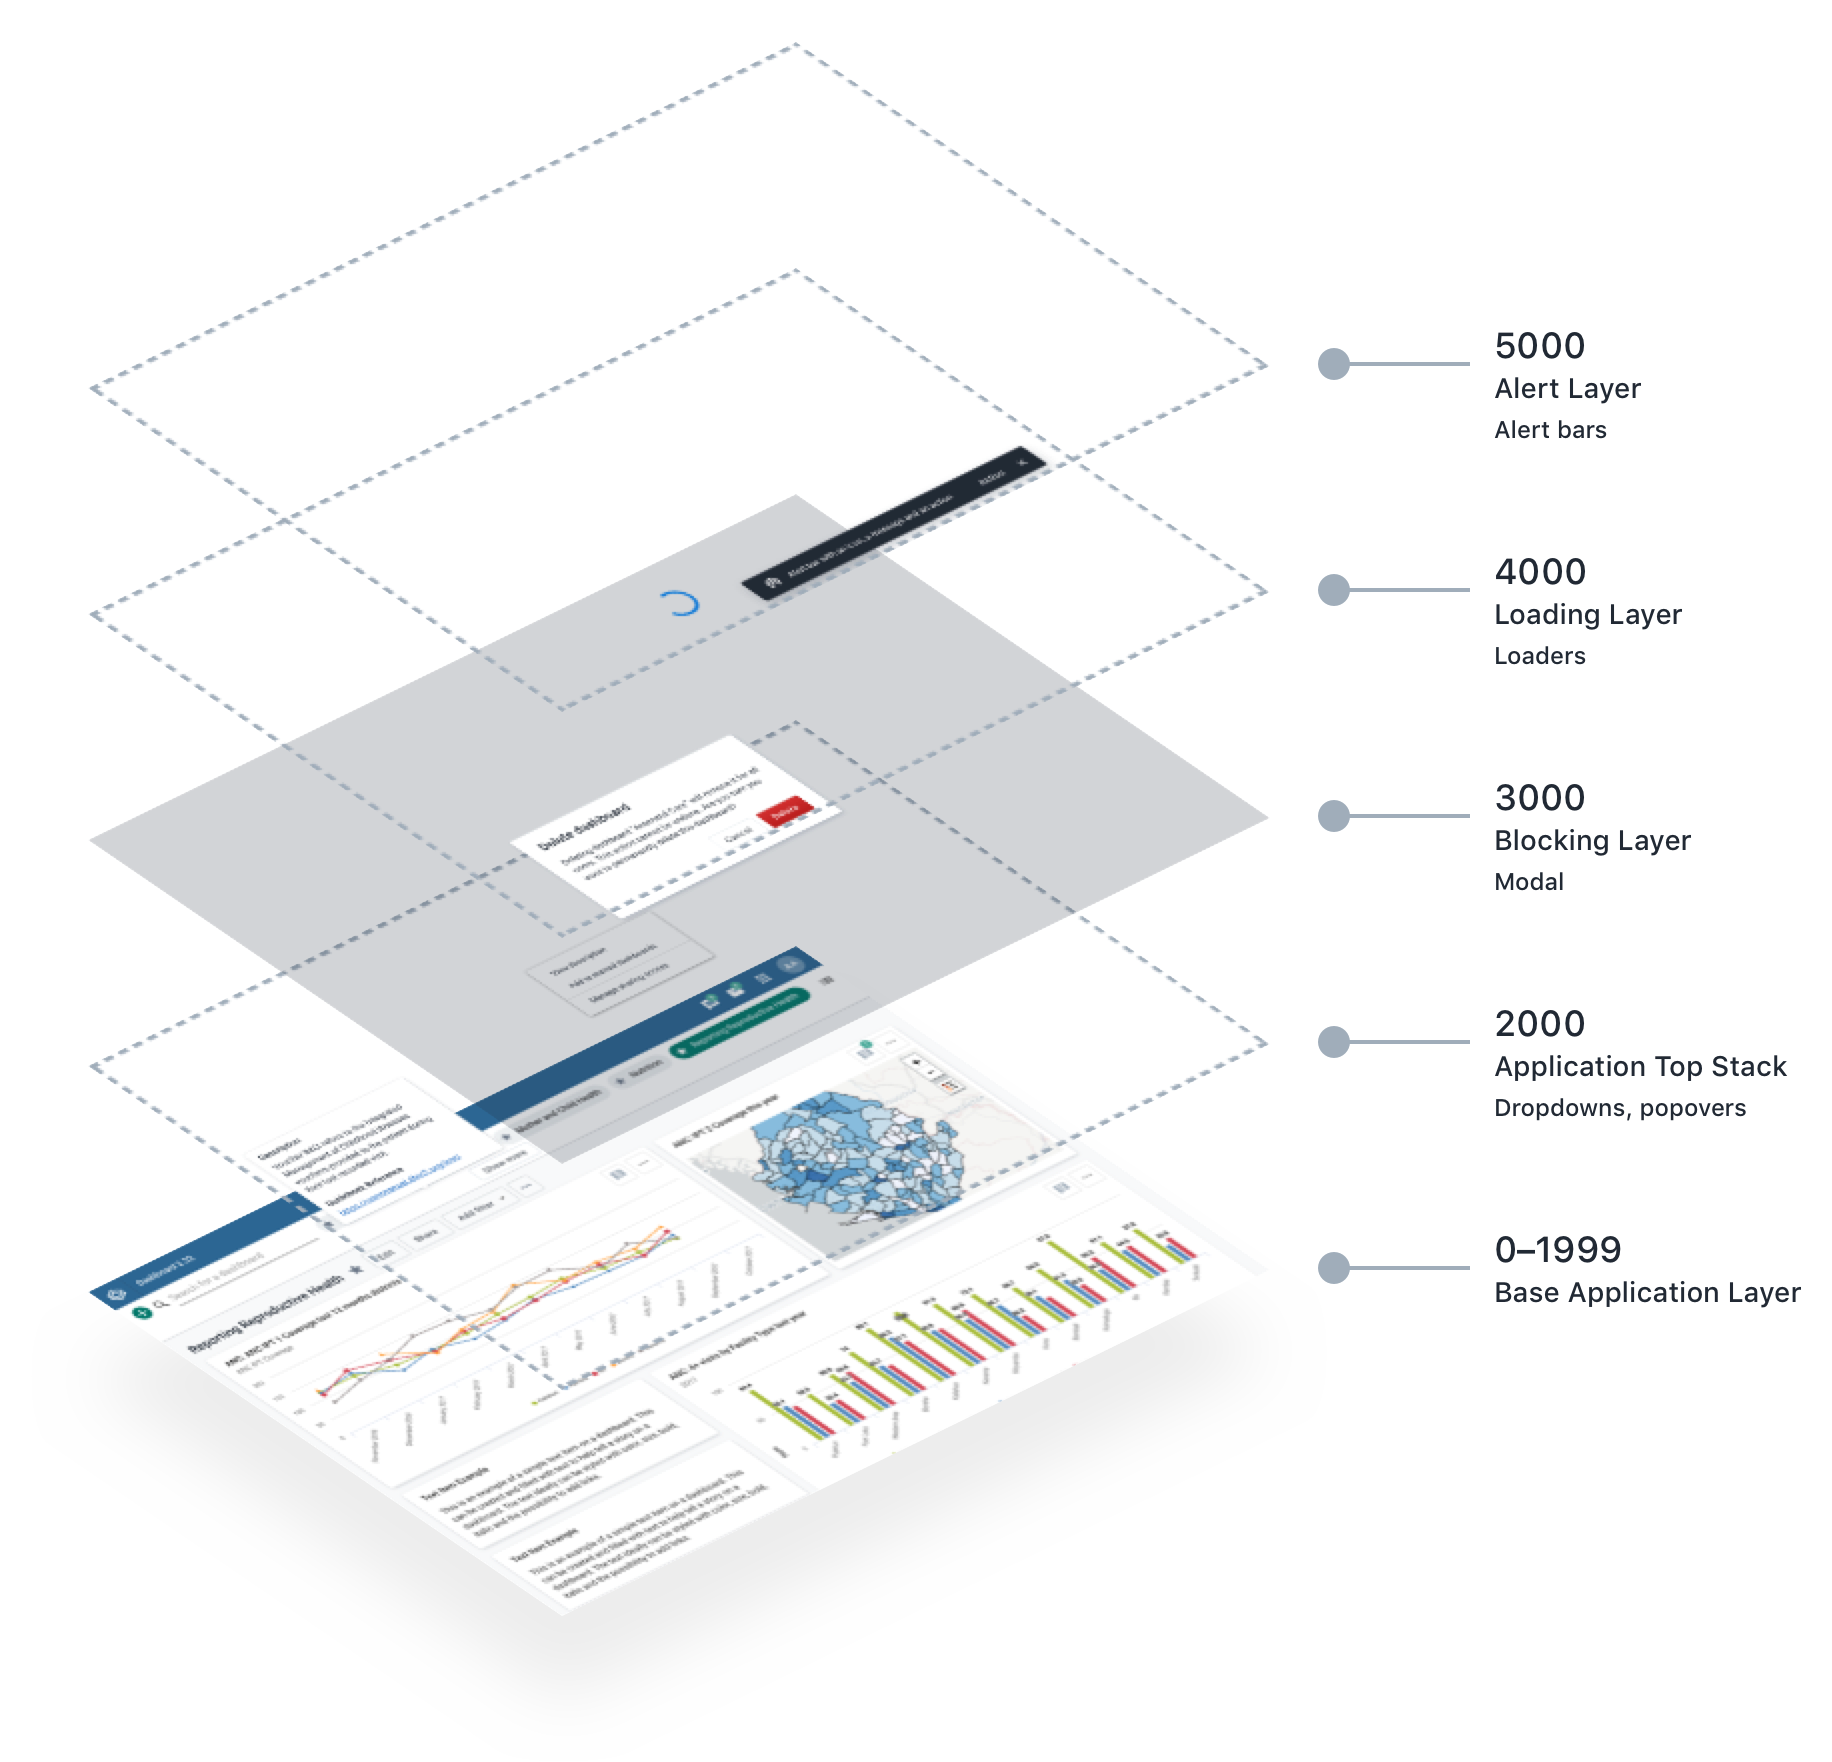
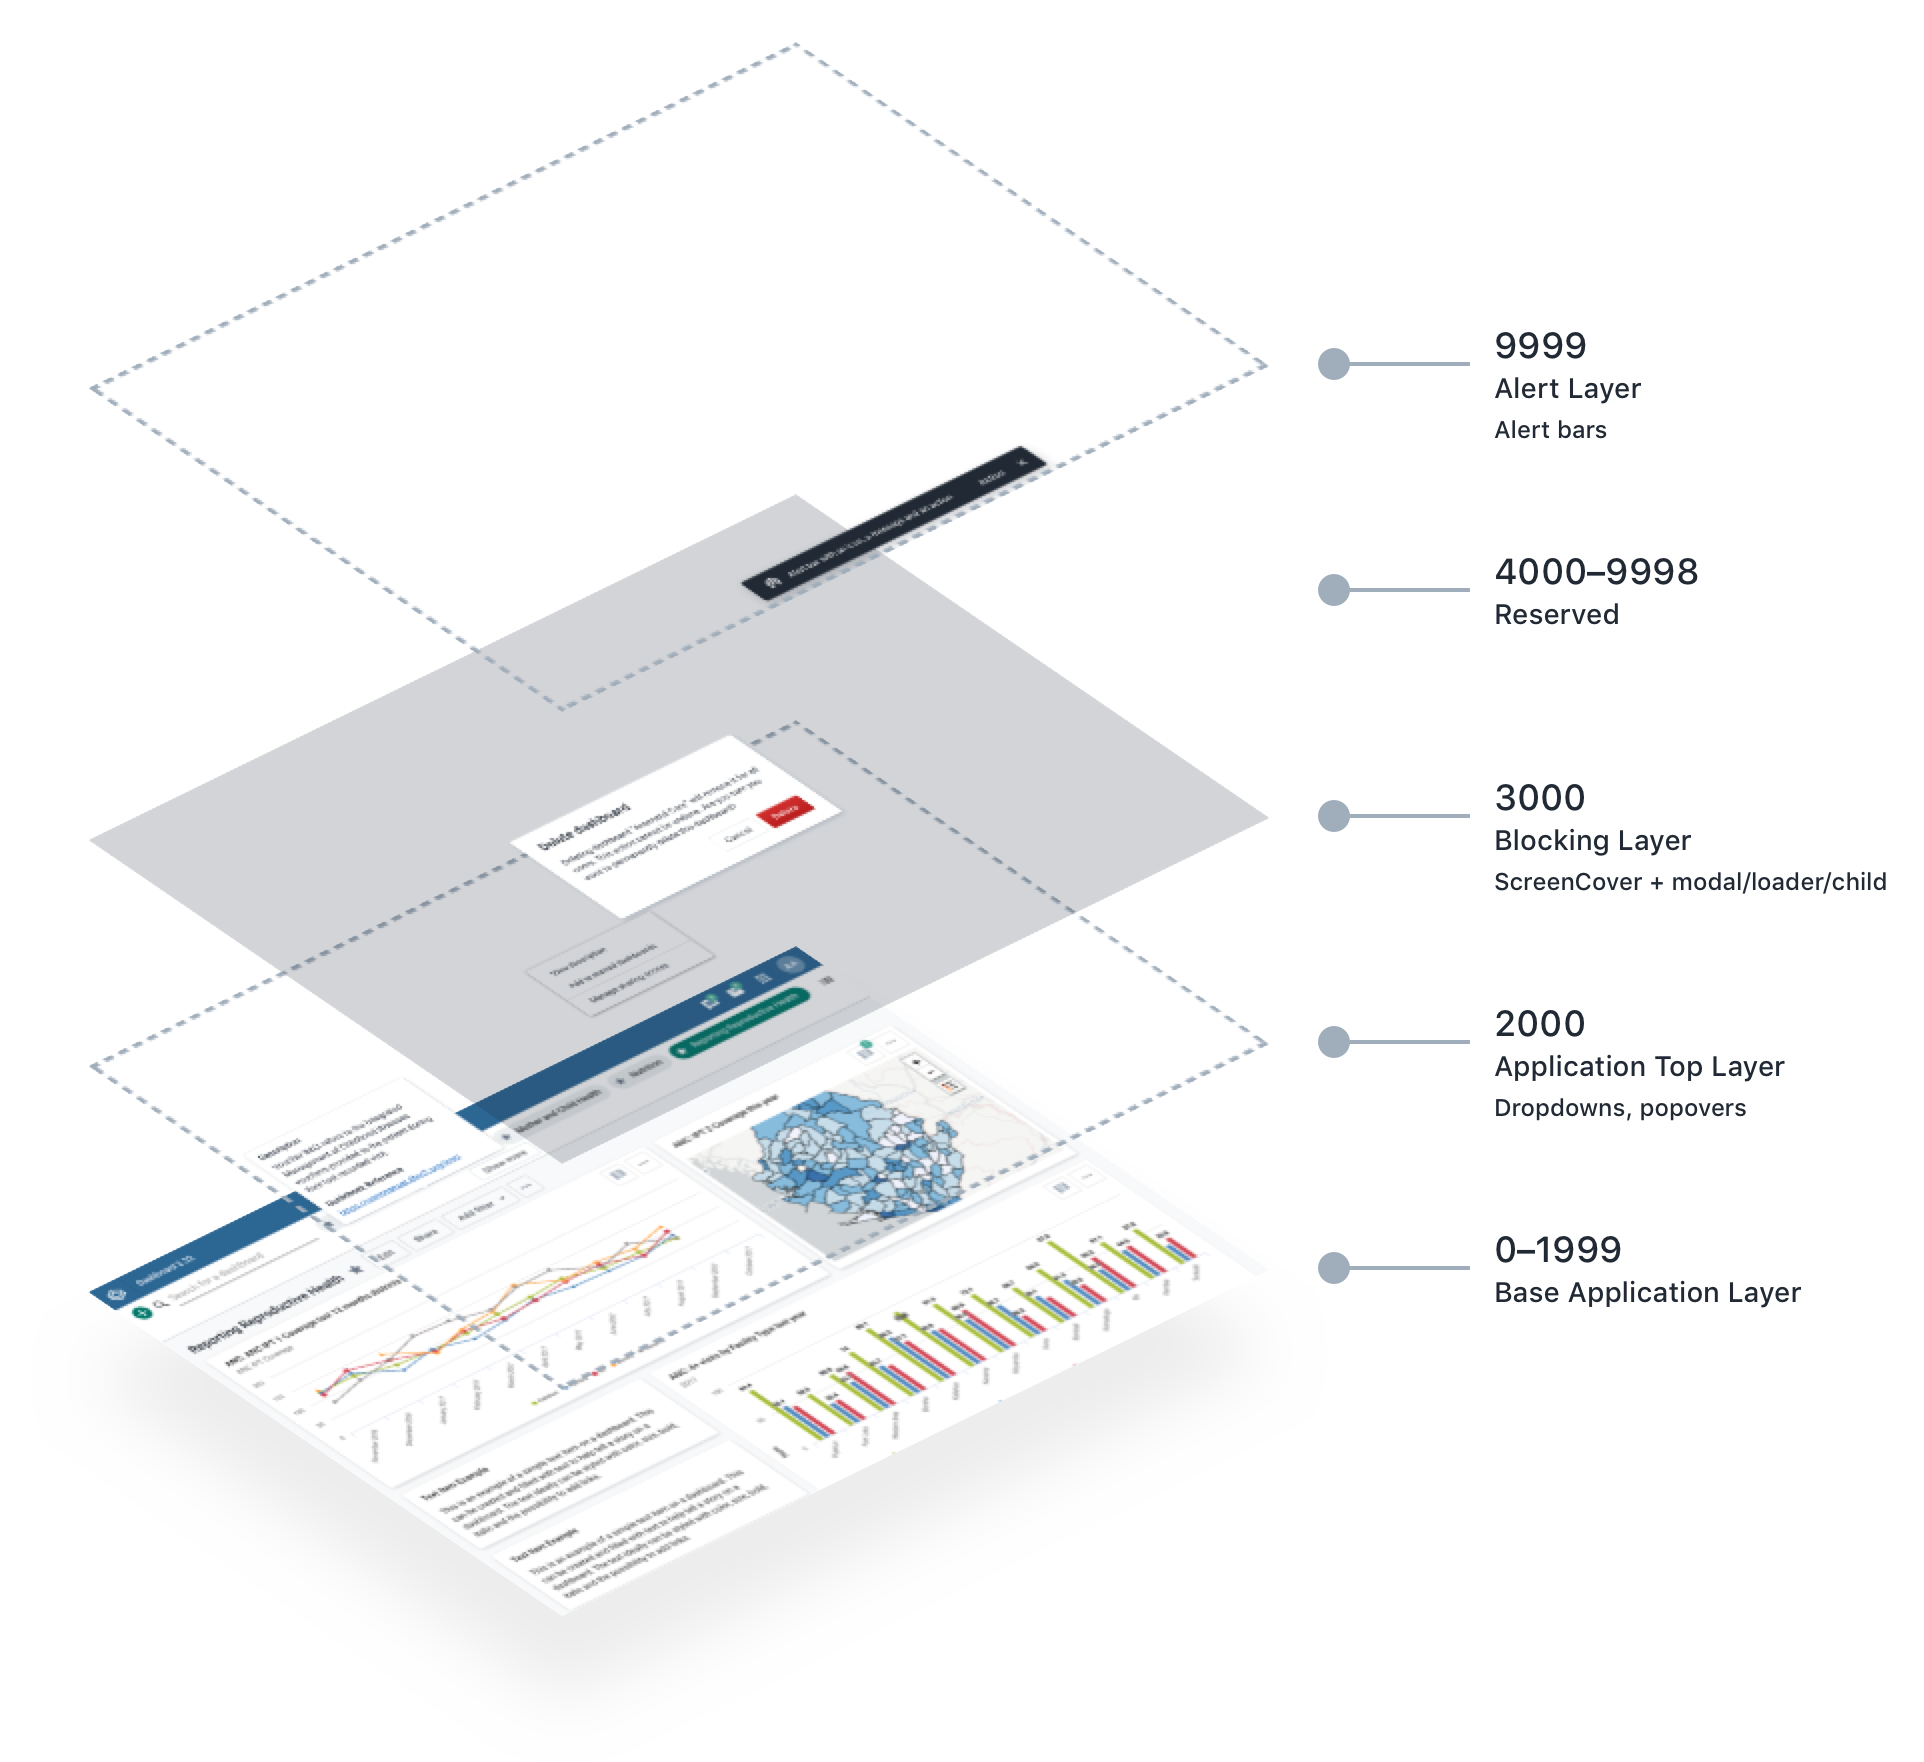
update stacking, add alertbar usage guidelines

diff --git a/molecules/alertbar.md b/molecules/alertbar.md
@@ -1,13 +1,93 @@
 # Alert bar
-WIP
+A floating alert that informs the user of some temporary information in the context of the current screen. 
 
-<!--![](../images/popover-.jpg)-->
+![](../images/alertbar.png)
 
 [Design specs for building alert bar](https://sketch.cloud/s/DwkDk/JnLkOWe)
 
+## Composition
+![example spec for alertbar](../images/alertbar-comp.png)
+
+1. **Background, required:** background of the alert bar. The color is defined by the type.
+2. **Icon, optional:** an icon to help the user quickly understand the context of the alert.
+3. **Text, required:** concise, informative text. Should give the user a quick, understandable snapshot of the content in a few words.
+4. **Actions, optional:** actions can be local (on the current page), or link elsewhere. An alert bar can have up to two actions.
+5. **Dimiss control, required:** A control to manually dismiss the alert bar.
+
 ## Usage
-WIP
+Alert bars notify a user of some information. There are different types of alert bar for displaying different types of content. Use the alert bar type that matches your content type and importance. Note that alert bar can be ignored by the user, so they shouldn't be used for content that needs to block an app flow, use a [modal](modal.md) instead.
 
+Alert bars are always displayed at centered at the bottom of the screen. Some types of alert bar dismiss after a set time, others must be dismissed by the user.
 
-## Examples in use
-WIP
+To summarise the different types of alert bar available:
+
+Type | Usage
+---- | ----
+Info | Default. Inform the user of neutral content.
+Success | Confirm a successful action.
+Warning | Warn of a potential problem or obstruction, usually before it has happened.
+Critical | Inform of a catastrophic error or problem, after it has occured.
+
+### Using the correct type
+It is important to use the correct type of alert bar. Users should not be overloaded with warnings that are not actually important, nor should they miss out on important information.
+
+#### Info
+![info alert bar](../images/alertbar.png)
+
+The default alert bar that should be used in most situations. An information alert can be used to confirm minor actions instead of a success type. An info alert bar would be used, for example, for:
+
+- "Sharing settings changed."
+- "Message sent."
+- "Comment edited successfully."
+- "Data export complete."
+
+Info alert bars dismiss automatically after 5 seconds, so the message should not be critical to the users understanding, but rather a useful helper.
+
+#### Success
+![info alert bar](../images/alertbar-success.png)
+
+Success alert bars should be used to confirm successful major actions. Not all successful actions need a success alert bar, only those that are considered "large tasks", such as defining a program or creating a dashboard. Some example success alert bars:
+
+- "Program configuration saved and updated."
+- "Relationship created successfully."
+- "1000 objects updated."
+
+Success alerts dismiss automatically after 5 seconds, like info alert bars they are simply for confirmation and should not be critical to a users understanding.
+
+#### Warning
+![info alert bar](../images/alertbar-warning.png)
+
+Warning alert bars warn users of potential problems. Ideally warnings should be shown before a problem occurs. If a problem has already occured, a critical type is probably a better choice. Example content for warning alert bars:
+
+- "Some data is taking a long time to sync."
+- "A form on this page is hidden."
+- "Some stages are incomplete, so this report isn't ready yet."
+
+Warning alerts do not dismiss automatically. They disappear if the warning conditions change (eg. the data that wasn't loading finishes loading) or the user dismisses them.
+
+#### Critical
+![info alert bar](../images/alertbar-critical.png)
+
+Critical alerts are used to highlight a severe problem. They should only be used to inform the user of broken functionality after it has occured. Critical alerts should be used where the user can still interact with the application even though there is an error. If there is a catastrophic error that requires blocking the application, use a [modal](modal.md) instead. Critical alert text should inform the user what happened and why. Sample critical alert bars:
+
+- "Dashboard failed to load."
+- "Relationship not created, invalid relationship type."
+- "Message failed to send because there is no connection."
+
+Critical alerts do not dismiss automatically. A user can dismiss them.
+
+### Text
+Alert bar text should be concise and easy to understand. Avoid confusing, technical error messages. Warnings and problems should include a reason, or a recommended action to fix the problem. 
+
+### Actions
+Alert bars can have up to two actions. An action can control something on the current page (e.g. "Retry", which retries the previous action) or can link out to an external page (e.g. "View docs", which opens the relevant documentation). External actions should open in a new tab so users do not lose their current position. Alert bar actions should be simple. Do not include complex or multi-step actions.
+
+### Icons
+Alert bar icons support the content and give the user a way of quickly understanding the context of the information. Example uses of icons:
+
+- Wifi/Network icon when informin the user about their network connection.
+- Tick/checkmark when successfully adding a user.
+- ! icon when an error has occured.
+
+<!-- ## Examples in use -->
+

diff --git a/principles/spacing-alignment.md b/principles/spacing-alignment.md
@@ -34,15 +34,15 @@ If in doubt, try to strike a balance between compact and 'spaced out'. Don't art
 ## Stacking
 It's important to maintain an understandable and consistent stacking system across all DHIS2 apps. "Stacking" refers to the concept of layering components on top of one another. For example, a modal window is stacked on top of regular application content. This communicates that a modal window interrupts the app flow for a different type of content.  The DHIS2 Design System defines 5 layers in the stack:
 
-![example of stacking layers](../images/stacking.png) 
+![example of stacking layers](../images/stacking.png)
 
 Layer | Description
 ------------ | -------------
 Base Application Layer (0–1999) | Contains all components, controls and data for the main application. The application can define it's own layering from 0 to 1999.
 Application Top Layer (2000) | Protected components that always layer over the top of the base application layer. This layer is reserved for controls such as dropdowns and popovers that functionally must always display above the application content.
-Blocking Layer (3000) | Blocks the application and its controls, so is only use for actions that are intentionally interrupting. This layer is reserved for all modal windows.
-Loading Layer (4000) | Blocks all application interaction. Reserved for displaying the loading state of an entire application. 
-Alert Layer (5000) | The top layer is reserved for displaying alert bars. Alert bars can contain critical information and so must always be displayed above all other content.
+Blocking Layer (3000) | Blocks the application and its controls, so is only use for actions that are intentionally interrupting. This layer contains a sceen cover which blocks the layers beneath. Child elements, such as [modals](../molecules/modal.md) or loaders, can be added to this layer.
+Reserved (4000–9998) | Reserved for future development.
+Alert Layer (9999) | The top layer is reserved for displaying [alert bars](../molecules/alertbar.md). Alert bars can contain critical information and so must always be displayed above all other content.
 
 ### Using stacking
 All layers above 1999 are protected and should not be used for application components and controls. When building your application it may be necessary to define your own system between 0–1999. Keep in mind how users perceive different layers. Layers at the 'top' of a stack will always seem most important. Placing content on different layers may obscure information in some cases, always be aware of the consequences of stacking. If in doubt it is safer to place content on the same layer than risk overlapping, unclear layouts.
